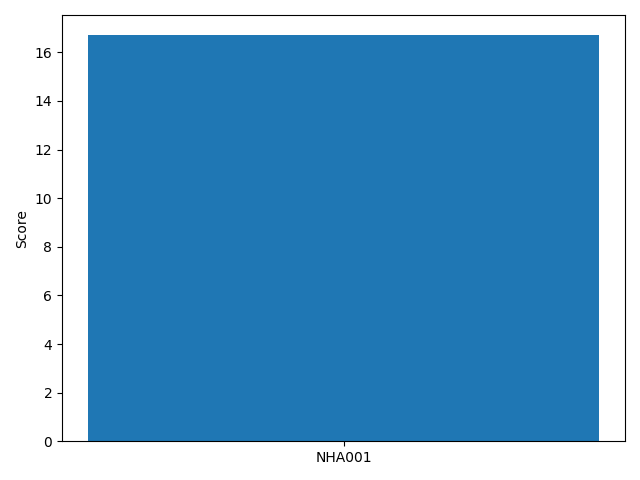
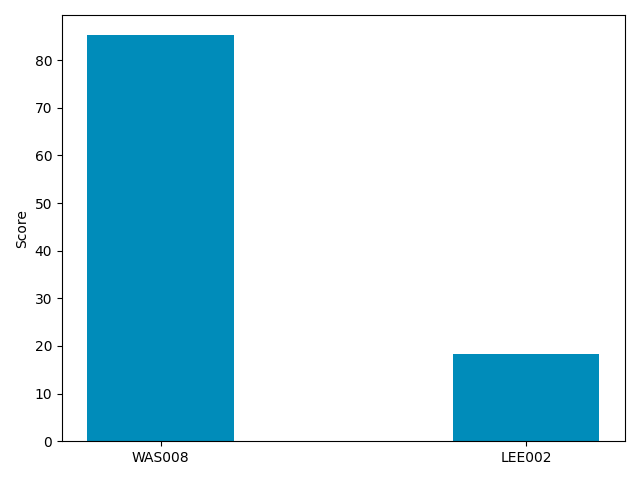
cleaned some minor things

diff --git a/templates/base.html b/templates/base.html
@@ -4,10 +4,8 @@
       <meta charset="utf-8">
       <title>{{ title }}</title>
       <link rel="stylesheet" href="{{ url_for('static', filename='bootstrap.min.css') }}" type="text/css">
-      
       <script src="https://code.jquery.com/jquery-3.2.1.slim.min.js" integrity="sha384-KJ3o2DKtIkvYIK3UENzmM7KCkRr/rE9/Qpg6aAZGJwFDMVNA/GpGFF93hXpG5KkN" crossorigin="anonymous"></script>
       <script src="https://maxcdn.bootstrapcdn.com/bootstrap/4.0.0/js/bootstrap.min.js" integrity="sha384-JZR6Spejh4U02d8jOt6vLEHfe/JQGiRRSQQxSfFWpi1MquVdAyjUar5+76PVCmYl" crossorigin="anonymous"></script>
-      <link rel="stylesheet" href="{{ url_for('static', filename='youface.css') }}" type="text/css">
     </head>
 
     <body>
@@ -17,17 +15,16 @@
           <button class="navbar-toggler" type="button" data-toggle="collapse" data-target="#navbarColor01" aria-controls="navbarColor01" aria-expanded="false" aria-label="Toggle navigation">
             <span class="navbar-toggler-icon"></span>
           </button>
-
           <div class="collapse navbar-collapse" id="navbarColor01">
             <ul class="navbar-nav mr-auto">
-              <li class="nav-item">
-                <a class="nav-link" href="/">Home</a>
+              <li style="padding-right:20px;"class="nav-item">
+                <a class="navbar-brand" href="/">Home</a>
               </li>
-              <li class="nav-item">
-                <a class="nav-link" href="/rankdata">Ranked Listing</a>
+              <li style="padding-right:20px;"class="nav-item">
+                <a class="navbar-brand" href="/rankdata">Ranked Listing</a>
               </li>
-              <li class="nav-item">
-                <a class="nav-link" href="/moreinfo">Info Page</a>
+              <li style="padding-right:20px;"class="nav-item">
+                <a class="navbar-brand" href="/moreinfo">Info Page</a>
               </li>
             </ul>
             <ul class="navbar-nav pull-right">
@@ -40,14 +37,8 @@
           </div>
         </div>
       </nav>
-
-
       <div>&NonBreakingSpace;</div>
-      
-
       <div class="container">
-        
-
         {% block content %}
         {% endblock %}
       </div>

diff --git a/templates/rankedlist.html b/templates/rankedlist.html
@@ -8,11 +8,11 @@
         <div class="row justify-content-md-center mb-4">
           <h1 class="">Ranked listing of treatment priority scores</h1>
         </div>
-        <div class="row justify-content-md-center">
+          <div class="row justify-content-md-center mb-4">
             {% if plot_url %}
-                <img src={{ plot_url}} alt="Chart" height="50%" width="80%">
+                <img class="row justify-content-md-center" src={{ plot_url}} alt="Chart" >
             {% endif %}
-        </div>
+          </div>
         <div>
         {% with messages = get_flashed_messages() %}
             {% if messages %}

diff --git a/templates/feed.html b/templates/feed.html
@@ -1,5 +1,4 @@
 {% extends "base.html" %} {% block content %}
-<link rel="stylesheet" href="{{ url_for('static', filename='youface.css') }}" type="text/css">
 <div class="row justify-content-md-center mb-4">
   <h1 class="">SWMAC Mosquito Station Ranking System</h1>
 </div>
@@ -51,7 +50,7 @@
                   class="form-control"
                   name="q3"
                   rows="1"
-                  placeholder="Enter here in fahrenheit:"
+                  placeholder="Enter here in celsius:"
                 ></textarea>
               </div>
           </div>

diff --git a/static/bootstrap.min.css b/static/bootstrap.min.css
@@ -27,7 +27,7 @@
     --white: #fff;
     --gray: #888;
     --gray-dark: #333;
-    --primary: #008cba;
+    --primary: #006119;
     --secondary: #eee;
     --success: #43ac6a;
     --info: #04881a;

diff --git a/main.py b/main.py
@@ -24,6 +24,7 @@ def set_response_headers(response):
     return response
 
 def score(station, geography, temperature):
+    # calculates an average for the treatment priority score
     tempscore = temperature_Score(int(temperature))
     geoscore = geography_Score(geography)
     stationscore = location_Score(station)
@@ -31,6 +32,7 @@ def score(station, geography, temperature):
 
 @app.route('/')
 def index():
+    # reads in every station from stations.txt
     f = open('stations.txt', 'r')
     choices_stations = ['Select here:']
     for line in f:
@@ -46,17 +48,13 @@ def submit():
     question1 = request.form.get('q1')
     question2 = request.form.get('q2')
     question3 = request.form.get('q3')
-    # makes sure the whole form is completed correctly, and only integers are used for temperature
-    if question1 == 'Select here:' or question2 == 'Select here:' or question3 not in '0123456789':
+    # makes sure the whole form is completed correctly, and only numbers are used for temperature
+    if question1 == 'Select here:' or question2 == 'Select here:' or not question3.isdigit():
         if question3 == '':
             flash('Please complete all fields correctly!')
             return redirect(url_for('index'))
-        try: 
-            int(question3)
-        except:
-            flash('Please use only numbers for the temperature!')
-            return redirect(url_for('index')) 
-        flash('Please complete all fields correctly!')
+        flash('Please use only numbers for the temperature!')
+        return redirect(url_for('index')) 
     else:
         # adds them to the database
         dbhelpers.new_station_data(db, question1, question2, question3)
@@ -80,7 +78,7 @@ def rank():
         sorted_stations[i]['rank'] = len(sorted_stations) - i
     sorted_stations.reverse()
     # generates matplotlib graph and stores it in static/images/
-    if len(sorted_stations) >= 1:
+    if len(sorted_stations) > 1:
         # checks to see if there are any stations recorded, and if so it shows the graph
         rankgraph.saveGraph(sorted_stations)
         return render_template('rankedlist.html', stations = sorted_stations, plot_url = 'static/images/graph.png')
@@ -88,7 +86,7 @@ def rank():
 
 @app.route('/resetlist', methods = ['POST'])
 def reset():
-    # clears all stations from the database, and deletes graph.png
+    # clears all stations from the database
     dbhelpers.reset_stations(db)
     flash('Station data reset successfully!')
     return rank()

diff --git a/rankgraph.py b/rankgraph.py
@@ -3,6 +3,7 @@ import matplotlib.pyplot as plt
 import numpy as np
 
 def saveGraph(stations):
+    # forces matplotlib to use noninteractive version, prevents attempted gui opening
     matplotlib.pyplot.switch_backend('Agg')
     # generates a bar graph of each station and its score, and saves it to a png file
     station_names = []
@@ -12,7 +13,7 @@ def saveGraph(stations):
         scores.append(station['score'])
     x = np.arange(len(station_names))  
     fig, ax = plt.subplots()
-    ax.bar(x, scores)
+    ax.bar(x, scores, width = 0.4, color = '#008cba')
     ax.set_ylabel('Score')
     ax.set_xticks(x)
     ax.set_xticklabels(station_names)

diff --git a/geographyscore.py b/geographyscore.py
@@ -1,5 +1,6 @@
 # Can take Pond, Creek, Farmland, Residential, and Marshland as parameters.
 # Scores are based on the total number of mosquitoes at each geography type. Highest number = Highest score
+
 def geography_Score(place):
     if place == "Pond":
         return 0.75

diff --git a/locationscore.py b/locationscore.py
@@ -1,4 +1,5 @@
 # numbers determeined by the average amount of mosquitos per pickup at each loaction. Higher average = Higher score.
+
 def location_Score(location):
     if location == "WAS008":
         return 1

diff --git a/tempscore.py b/tempscore.py
@@ -1,3 +1,4 @@
+
 def temperature_Score(temp):
     if temp <= 17 or temp >= 35:
         return 0
